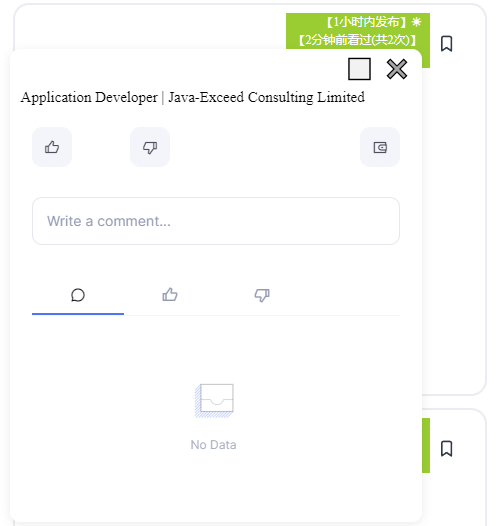
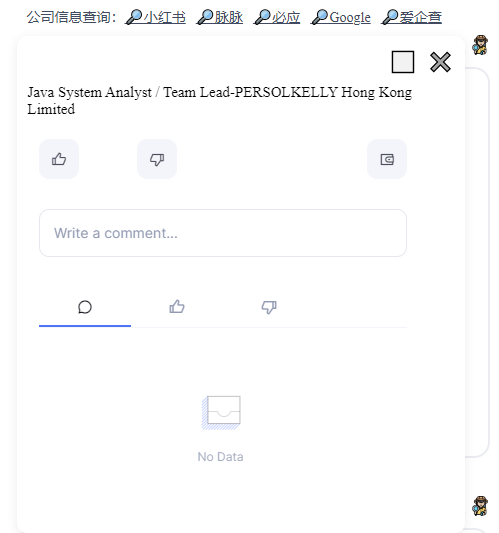
docs: running picture,browser support,release version install

diff --git a/README.md b/README.md
@@ -1,17 +1,17 @@
 # Job Hunting - 一款协助找工作的 chrome 浏览器插件
 
 <p align="center">
-    <img src="docs\logo.png" alt="angular-logo" width="128px" height="128px"/>
+    <img src="docs\logo.png" alt="logo" width="128px" height="128px"/>
 </p>
 
 ## 招聘平台支持列表
 
 | 招聘平台  | 访问地址                            | 备注                   |
 | --------- | ----------------------------------- | ---------------------- |
-| BOSS      | https://www.zhipin.com/web/geek/job |                        |
-| 51Job     | https://we.51job.com/pc/search      |                        |
-| 智联      | https://sou.zhaopin.com/            |                        |
-| 拉钩      | https://www.lagou.com/wn/zhaopin    |                        |
+| BOSS直聘  | https://www.zhipin.com/web/geek/job |                        |
+| 前程无忧  | https://we.51job.com/pc/search      |                        |
+| 智联招聘  | https://sou.zhaopin.com/            |                        |
+| 拉钩网    | https://www.lagou.com/wn/zhaopin    |                        |
 | jobsdb-hk | https://hk.jobsdb.com/              | 需点击搜索按钮才有效果 |
 
 ## 功能列表
@@ -24,22 +24,83 @@
 6. 职位评论（当前采用ECHO作为评论平台，请遵守相关法律法规合法留言）
 
 
+## Browsers support
+
+Modern browsers
+
+| [<img src="https://raw.githubusercontent.com/alrra/browser-logos/master/src/edge/edge_48x48.png" alt="IE / Edge" width="24px" height="24px" />](https://godban.github.io/browsers-support-badges/)</br> Edge | [<img src="https://raw.githubusercontent.com/alrra/browser-logos/master/src/chrome/chrome_48x48.png" alt="Chrome" width="24px" height="24px" />](https://godban.github.io/browsers-support-badges/)</br>Chrome |
+| ------------------------------------------------------------ | ------------------------------------------------------------ |
+| Edge                                                         | last 2 versions                                              |
+
 ## 运行截图
 
-| 功能                                  | 效果图                                                       |
-| ------------------------------------- | ------------------------------------------------------------ |
-| 显示职位发布时间与自动排序            | <img src="docs\introduction\job_addition_tag.png" alt="angular-logo" width="600px"/> |
-| 职位评论                              | <img src="docs\introduction\job_comment.png" alt="angular-logo" width="600px"/> |
-| 管理页面(需点击插件图标打开SidePanel) | <img src="docs\introduction\sidepanel_admin_home.png" alt="angular-logo" width="600px"/> |
+<p>
+    <div style="margin-top:20px">
+        <img src="docs\introduction\job-item-boss.png" alt="boss" width="1000px"/>
+        <div style="text-align:center">
+            Boss直聘
+        </div>
+	</div>
+	<div style="margin-top:20px">
+        <img src="docs\introduction\job-item-51job.png" alt="51job" width="1000px"/>
+        <div style="text-align:center;">
+            前程无忧
+        </div>
+	</div>
+	<div style="margin-top:20px">
+        <img src="docs\introduction\job-item-zhilian.png" alt="zhilian" width="1000px"/>
+        <div style="text-align:center">
+            智联招聘
+        </div>
+	</div>
+	<div style="margin-top:20px">
+        <img src="docs\introduction\job-item-lagou.png" alt="lagou" width="1000px"/>
+        <div style="text-align:center">
+            拉勾网
+        </div>
+	</div>
+	<div style="margin-top:20px;text-align:center;" >
+        <img src="docs\introduction\job-item-jobsdb.png" alt="jobsdb" width="500px"/>
+        <div style="text-align:center">
+            JobsDB HK
+        </div>
+	</div>
+</p>
+
+### 管理页面
+
+<p>
+    <div style="margin-top:20px">
+        <img src="docs\introduction\chrome_extension_sidepanel_open.png" alt="chrome_extension_sidepanel_open" width="600px"/>
+        <div style="text-align:center">
+            打开SidePanel
+        </div>
+	</div>
+    <div style="margin-top:20px">
+        <img src="docs\introduction\sidepanel_admin_home.png" alt="sidepanel_admin_home" width="1000px"/>
+        <div style="text-align:center">
+            管理页面（需点击插件图标打开Sidepanel）
+        </div>
+	</div>
+</p>
 
 
 
 ## 运行及编译
 
-**直接下载**
+**直接下载1（尝鲜版）**
 
 1. 切换到 gh-pages 分支
 2. 点击右边绿色 code 按钮，选择下拉框中的 Download ZIP 下载
+3. 解压zip文件
+4. 打开chrome，选择加载已解压的扩展程序，选择解压后的job-hunting-gh-pages目录
+
+**直接下载2**
+
+	1. 打开Release页
+ 	2. 找到最新版本的Assets页下的job-hunting-chrome-extension-xxx.zip
+ 	3. 解压zip文件
+ 	4. 打开chrome，选择加载已解压的扩展程序，选择解压后的job-hunting-chrome-extension目录
 
 **编译**
 

diff --git a/CHANGELOG.md b/CHANGELOG.md
@@ -16,6 +16,12 @@
 
 1. (ContentScript)重构timeTag的渲染代码和promise的使用。
 
+### 📔 Documentation
+
+1. 修改运行截图
+2. 新增浏览器支持
+3. 新增Release版本安装说明
+
 ## 1.2.0(2024-05-31)
 
 ### ⭐ Added
